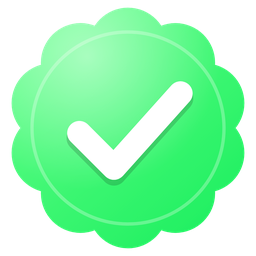
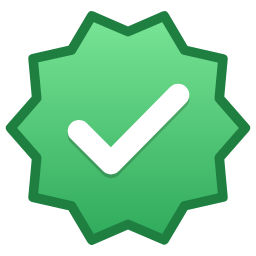
Badges: remove identity badge, unify the 4 tier badges in the seal shape
Claude-Session: https://claude.ai/code/session_01X84Ttv2GNt1drwSPj32bYF

diff --git a/app/lib/widgets.dart b/app/lib/widgets.dart
@@ -115,12 +115,10 @@ class TierBadge extends StatelessWidget {
   @override
   Widget build(BuildContext context) {
     final t = Meta.tierOfProvider(p);
-    if (t.isEmpty && p['verified'] != true) return const SizedBox.shrink();
+    if (t.isEmpty) return const SizedBox.shrink();
     return GestureDetector(
       onTap: () => trustSheet(context, p),
-      child: t.isNotEmpty
-          ? Image.asset('assets/badges/badge-$t.png', width: size, height: size)
-          : Icon(Icons.verified_rounded, color: C.blue, size: size),
+      child: Image.asset('assets/badges/badge-$t.png', width: size, height: size),
     );
   }
 }
@@ -129,12 +127,11 @@ class TierBadge extends StatelessWidget {
 void trustSheet(BuildContext context, Map p, {bool own = false}) {
   final jobs = (p['jobs'] ?? 0) as int;
   final t = Meta.tierOfProvider(p);
-  final verified = p['verified'] == true;
   final gs = (p['gray_status'] ?? '').toString();
   final next = jobs >= 100 ? null : (jobs >= 25 ? 100 : (jobs >= 5 ? 25 : 5));
   TableRow tr(Widget a, Widget b) => TableRow(children: [Padding(padding: const EdgeInsets.all(10), child: a), Padding(padding: const EdgeInsets.all(10), child: b)]);
   Widget chip(String badge, String label) => Row(mainAxisSize: MainAxisSize.min, children: [
-        badge == 'id' ? const Icon(Icons.verified_rounded, color: C.blue, size: 20) : Image.asset('assets/badges/badge-$badge.png', width: 20, height: 20),
+        Image.asset('assets/badges/badge-$badge.png', width: 22, height: 22),
         const SizedBox(width: 6),
         Text(label, style: const TextStyle(fontWeight: FontWeight.w700)),
       ]);
@@ -149,13 +146,12 @@ void trustSheet(BuildContext context, Map p, {bool own = false}) {
       maxChildSize: .95,
       builder: (_, sc) => ListView(controller: sc, padding: const EdgeInsets.fromLTRB(20, 18, 20, 28), children: [
         Row(children: [
-          if (t.isNotEmpty) Image.asset('assets/badges/badge-$t.png', width: 46, height: 46) else const Icon(Icons.verified_rounded, color: C.blue, size: 40),
+          if (t.isNotEmpty) Image.asset('assets/badges/badge-$t.png', width: 46, height: 46),
           const SizedBox(width: 12),
-          Expanded(child: Text(own ? 'شاراتك وكيف تحصل عليها' : 'موثّق · لماذا ${shortName((p['name'] ?? '').toString())}؟', style: const TextStyle(fontSize: 18, fontWeight: FontWeight.w800))),
+          Expanded(child: Text(own ? 'شاراتك وكيف تحصل عليها' : 'لماذا ${shortName((p['name'] ?? '').toString())} موثوق؟', style: const TextStyle(fontSize: 18, fontWeight: FontWeight.w800))),
         ]),
         const SizedBox(height: 14),
         Table(border: TableBorder.all(color: C.hair, borderRadius: BorderRadius.circular(10)), columnWidths: const {0: FlexColumnWidth(1.1), 1: FlexColumnWidth(2)}, children: [
-          tr(const Text('الهوية'), Text(verified ? '✓ تحقق منها فريق التطبيق' : 'لم يتم التحقق بعد', style: TextStyle(color: verified ? C.green : C.mute, fontWeight: FontWeight.w600))),
           tr(const Text('الأعمال المؤكدة'), Text('$jobs${next == null ? '' : '  (باقي ${next - jobs} للشارة التالية)'}')),
           tr(const Text('الشارة الحالية'), t.isEmpty ? const Text('لا توجد بعد', style: TextStyle(color: C.mute)) : chip(t, 'شارة ${Meta.tierName(t)}')),
           if (own && gs == 'pending') tr(const Text('ملفك'), const Text('مكتمل وبانتظار موافقة الإدارة على الشارة الرمادية', style: TextStyle(color: C.blue))),
@@ -163,10 +159,9 @@ void trustSheet(BuildContext context, Map p, {bool own = false}) {
           if (own && (p['badge_reason'] ?? '').toString().isNotEmpty) tr(const Text('سبب المنح'), Text(p['badge_reason'].toString())),
         ]),
         const SizedBox(height: 18),
-        const Text('كيف تحصل على التوثيق والشارات؟', style: TextStyle(fontSize: 16, fontWeight: FontWeight.w800)),
+        const Text('كيف تحصل على الشارات؟', style: TextStyle(fontSize: 16, fontWeight: FontWeight.w800)),
         const SizedBox(height: 8),
         Table(border: TableBorder.all(color: C.hair, borderRadius: BorderRadius.circular(10)), columnWidths: const {0: FlexColumnWidth(1.1), 1: FlexColumnWidth(2)}, children: [
-          tr(chip('id', 'هوية موثّقة'), const Text('أرسل لفريق الدعم على واتساب وثيقة سارية وصورة لك معها، وبعد التحقق تُفعَّل علامتك.', style: TextStyle(height: 1.5))),
           tr(chip('gray', 'رمادية'), const Text('أكمل بيانات ملفك بالكامل (الصورة، الوصف، الحي، السعر، الخبرة). تراجعها الإدارة وتمنحك الشارة إن كانت البيانات صحيحة.', style: TextStyle(height: 1.5))),
           tr(chip('green', 'خضراء'), const Text('أكمل 5 معاملات ناجحة', style: TextStyle(height: 1.5))),
           tr(chip('blue', 'زرقاء'), const Text('أكمل 25 معاملة ناجحة', style: TextStyle(height: 1.5))),

diff --git a/app/lib/screens/provider.dart b/app/lib/screens/provider.dart
@@ -170,10 +170,10 @@ class _ProviderScreenState extends State<ProviderScreen> {
               const SizedBox(width: 6),
               TierBadge(p: p, size: 26),
             ]),
-            if (tier.isNotEmpty || p['verified'] == true)
+            if (tier.isNotEmpty)
               GestureDetector(
                 onTap: () => trustSheet(context, p),
-                child: Padding(padding: const EdgeInsets.only(top: 4), child: Text('موثّق${tier.isNotEmpty ? ' · شارة ${Meta.tierName(tier)}' : ''} · $jobs معاملة ناجحة  ›', style: const TextStyle(color: C.blue, fontSize: 12, fontWeight: FontWeight.w600))),
+                child: Padding(padding: const EdgeInsets.only(top: 4), child: Text('شارة ${Meta.tierName(tier)} · $jobs معاملة ناجحة  ›', style: const TextStyle(color: C.blue, fontSize: 12, fontWeight: FontWeight.w600))),
               ),
             const SizedBox(height: 8),
             Stars(rating: p['rating'] as num?, n: (p['rating_n'] ?? 0) as int),
